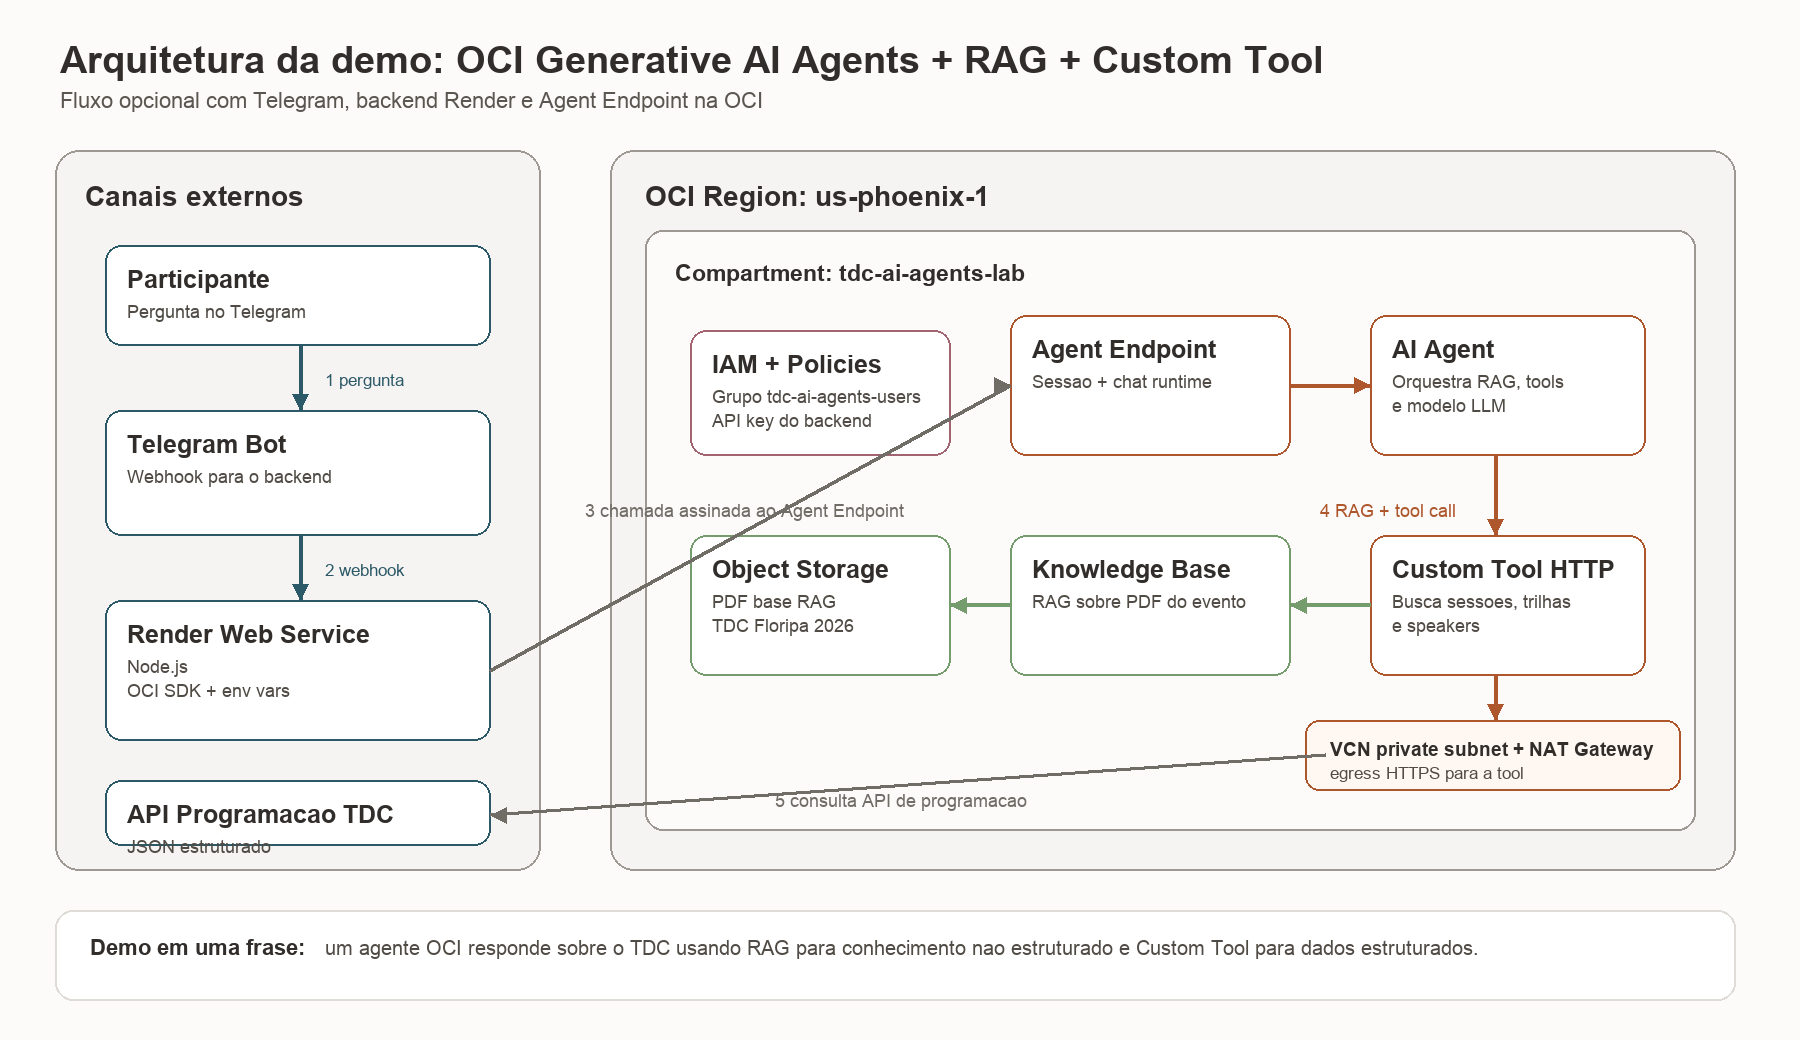
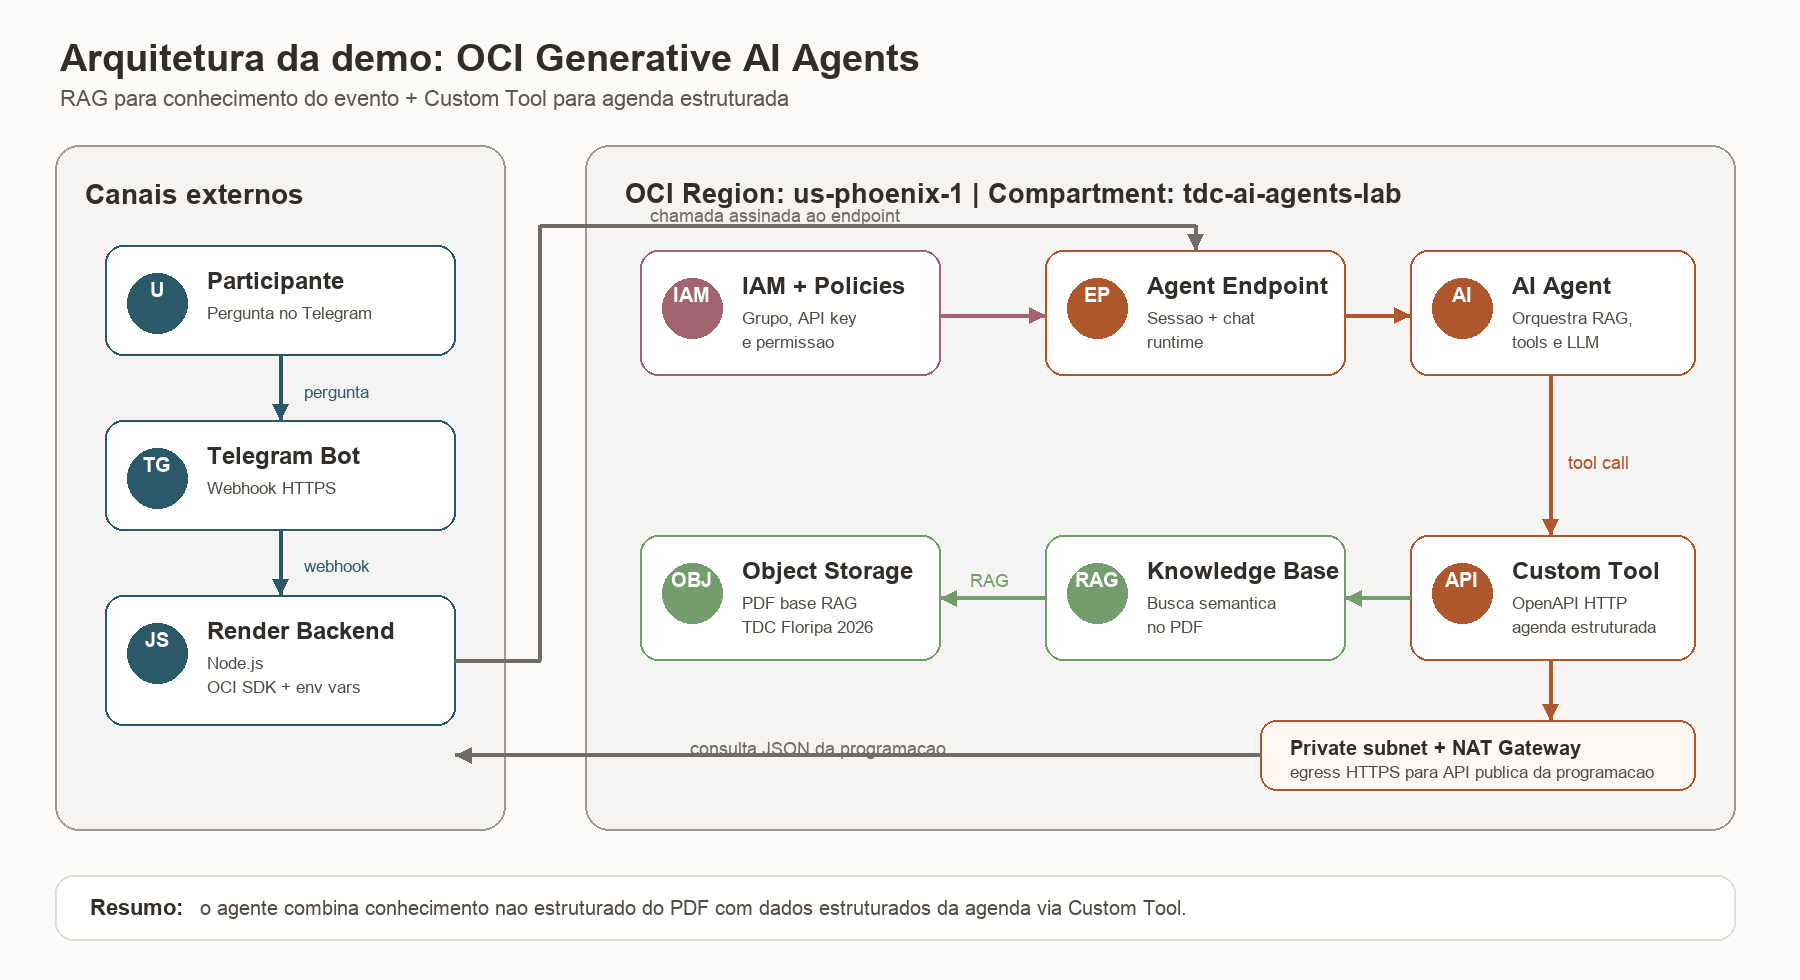
Simplify architecture diagram and demo deck

diff --git a/scripts/generate_readme_ppt_assets.py b/scripts/generate_readme_ppt_assets.py
@@ -45,10 +45,11 @@ def label(draw, text, x, y, size=24, fill=COLORS["bark"], bold=False, anchor=Non
     draw.text((x, y), text, fill=fill, font=font(size, bold), anchor=anchor)
 
 
-def arrow(draw, start, end, fill=COLORS["line"], width=4):
-    draw.line([start, end], fill=fill, width=width)
-    x1, y1 = start
-    x2, y2 = end
+def arrow(draw, start, end, fill=COLORS["line"], width=4, via=None):
+    points = [start] + (via or []) + [end]
+    draw.line(points, fill=fill, width=width)
+    x1, y1 = points[-2]
+    x2, y2 = points[-1]
     if abs(x2 - x1) >= abs(y2 - y1):
         direction = 1 if x2 >= x1 else -1
         points = [(x2, y2), (x2 - 16 * direction, y2 - 8), (x2 - 16 * direction, y2 + 8)]
@@ -58,73 +59,70 @@ def arrow(draw, start, end, fill=COLORS["line"], width=4):
     draw.polygon(points, fill=fill)
 
 
-def draw_component(draw, xy, title, subtitle, fill, outline=None):
+def draw_icon_card(draw, xy, icon, title, subtitle, accent):
     x1, y1, x2, y2 = xy
-    rounded_box(draw, xy, fill=fill, outline=outline or COLORS["line"], radius=16)
-    label(draw, title, x1 + 22, y1 + 20, size=25, bold=True)
+    rounded_box(draw, xy, fill="#FFFFFF", outline=accent, radius=18)
+    draw.ellipse((x1 + 22, y1 + 28, x1 + 82, y1 + 88), fill=accent, outline=accent)
+    label(draw, icon, x1 + 52, y1 + 45, size=20, fill="#FFFFFF", bold=True, anchor="mm")
+    label(draw, title, x1 + 102, y1 + 22, size=24, bold=True)
     if subtitle:
-        y = y1 + 56
+        y = y1 + 58
         for line in subtitle.split("\n"):
-            label(draw, line, x1 + 22, y, size=18, fill="#504B45")
+            label(draw, line, x1 + 102, y, size=17, fill="#504B45")
             y += 24
 
 
 def generate_architecture_png():
     path = DOCS / "arquitetura-oci-ai-agents-tdc.png"
-    img = Image.new("RGB", (1800, 1040), COLORS["air"])
+    img = Image.new("RGB", (1800, 980), COLORS["air"])
     draw = ImageDraw.Draw(img)
 
-    label(draw, "Arquitetura da demo: OCI Generative AI Agents + RAG + Custom Tool", 60, 38, size=38, bold=True)
-    label(draw, "Fluxo opcional com Telegram, backend Render e Agent Endpoint na OCI", 60, 88, size=22, fill="#5B5650")
+    label(draw, "Arquitetura da demo: OCI Generative AI Agents", 60, 36, size=38, bold=True)
+    label(draw, "RAG para conhecimento do evento + Custom Tool para agenda estruturada", 60, 86, size=22, fill="#5B5650")
 
-    rounded_box(draw, (55, 150, 540, 870), fill="#F5F4F2", outline="#9E9892", radius=24)
-    label(draw, "Canais externos", 85, 180, size=28, bold=True)
-    draw_component(draw, (105, 245, 490, 345), "Participante", "Pergunta no Telegram", "#FFFFFF", COLORS["ocean"])
-    draw_component(draw, (105, 410, 490, 535), "Telegram Bot", "Webhook para o backend", "#FFFFFF", COLORS["ocean"])
-    draw_component(draw, (105, 600, 490, 740), "Render Web Service", "Node.js\nOCI SDK + env vars", "#FFFFFF", COLORS["ocean"])
-    draw_component(draw, (105, 780, 490, 845), "API Programacao TDC", "JSON estruturado", "#FFFFFF", COLORS["ocean"])
+    rounded_box(draw, (55, 145, 505, 830), fill="#F5F4F2", outline="#9E9892", radius=24)
+    label(draw, "Canais externos", 85, 178, size=28, bold=True)
+    draw_icon_card(draw, (105, 245, 455, 355), "U", "Participante", "Pergunta no Telegram", COLORS["ocean"])
+    draw_icon_card(draw, (105, 420, 455, 530), "TG", "Telegram Bot", "Webhook HTTPS", COLORS["ocean"])
+    draw_icon_card(draw, (105, 595, 455, 725), "JS", "Render Backend", "Node.js\nOCI SDK + env vars", COLORS["ocean"])
 
-    rounded_box(draw, (610, 150, 1735, 870), fill="#F5F4F2", outline="#9E9892", radius=24)
-    label(draw, "OCI Region: us-phoenix-1", 645, 180, size=28, bold=True)
-    rounded_box(draw, (645, 230, 1695, 830), fill="#FCFBFA", outline="#9E9892", radius=18)
-    label(draw, "Compartment: tdc-ai-agents-lab", 675, 260, size=23, bold=True)
+    rounded_box(draw, (585, 145, 1735, 830), fill="#F5F4F2", outline="#9E9892", radius=24)
+    label(draw, "OCI Region: us-phoenix-1 | Compartment: tdc-ai-agents-lab", 625, 178, size=27, bold=True)
 
-    draw_component(draw, (690, 330, 950, 455), "IAM + Policies", "Grupo tdc-ai-agents-users\nAPI key do backend", "#FFFFFF", COLORS["rose"])
-    draw_component(draw, (1010, 315, 1290, 455), "Agent Endpoint", "Sessao + chat runtime", "#FFFFFF", COLORS["sienna"])
-    draw_component(draw, (1370, 315, 1645, 455), "AI Agent", "Orquestra RAG, tools\ne modelo LLM", "#FFFFFF", COLORS["sienna"])
-    draw_component(draw, (1010, 535, 1290, 675), "Knowledge Base", "RAG sobre PDF do evento", "#FFFFFF", COLORS["ivy"])
-    draw_component(draw, (690, 535, 950, 675), "Object Storage", "PDF base RAG\nTDC Floripa 2026", "#FFFFFF", COLORS["ivy"])
-    draw_component(draw, (1370, 535, 1645, 675), "Custom Tool HTTP", "Busca sessoes, trilhas\ne speakers", "#FFFFFF", COLORS["sienna"])
-    rounded_box(draw, (1305, 720, 1680, 790), fill="#FFF8F2", outline=COLORS["sienna"], radius=14)
-    label(draw, "VCN private subnet + NAT Gateway", 1330, 738, size=19, bold=True)
-    label(draw, "egress HTTPS para a tool", 1330, 763, size=17, fill="#504B45")
+    draw_icon_card(draw, (640, 250, 940, 375), "IAM", "IAM + Policies", "Grupo, API key\ne permissao", COLORS["rose"])
+    draw_icon_card(draw, (1045, 250, 1345, 375), "EP", "Agent Endpoint", "Sessao + chat\nruntime", COLORS["sienna"])
+    draw_icon_card(draw, (1410, 250, 1695, 375), "AI", "AI Agent", "Orquestra RAG,\ntools e LLM", COLORS["sienna"])
 
-    arrow(draw, (300, 345), (300, 410), COLORS["ocean"])
-    arrow(draw, (300, 535), (300, 600), COLORS["ocean"])
-    arrow(draw, (490, 670), (1010, 385), COLORS["line"])
-    arrow(draw, (1290, 385), (1370, 385), COLORS["sienna"])
-    arrow(draw, (1495, 455), (1495, 535), COLORS["sienna"])
-    arrow(draw, (1370, 605), (1290, 605), COLORS["ivy"])
-    arrow(draw, (1010, 605), (950, 605), COLORS["ivy"])
-    arrow(draw, (1495, 675), (1495, 720), COLORS["sienna"])
-    arrow(draw, (1325, 755), (490, 815), COLORS["line"])
+    draw_icon_card(draw, (640, 535, 940, 660), "OBJ", "Object Storage", "PDF base RAG\nTDC Floripa 2026", COLORS["ivy"])
+    draw_icon_card(draw, (1045, 535, 1345, 660), "RAG", "Knowledge Base", "Busca semantica\nno PDF", COLORS["ivy"])
+    draw_icon_card(draw, (1410, 535, 1695, 660), "API", "Custom Tool", "OpenAPI HTTP\nagenda estruturada", COLORS["sienna"])
 
-    label(draw, "1 pergunta", 325, 370, size=17, fill=COLORS["ocean"])
-    label(draw, "2 webhook", 325, 560, size=17, fill=COLORS["ocean"])
-    label(draw, "3 chamada assinada ao Agent Endpoint", 585, 500, size=18, fill=COLORS["line"])
-    label(draw, "4 RAG + tool call", 1320, 500, size=18, fill=COLORS["sienna"])
-    label(draw, "5 consulta API de programacao", 775, 790, size=18, fill=COLORS["line"])
+    rounded_box(draw, (1260, 720, 1695, 790), fill="#FFF8F2", outline=COLORS["sienna"], radius=16)
+    label(draw, "Private subnet + NAT Gateway", 1290, 736, size=20, bold=True)
+    label(draw, "egress HTTPS para API publica da programacao", 1290, 762, size=17, fill="#504B45")
 
-    rounded_box(draw, (55, 910, 1735, 1000), fill="#FFFFFF", outline="#DFDCD8", radius=18)
-    label(draw, "Demo em uma frase:", 90, 935, size=22, bold=True)
-    label(
-        draw,
-        "um agente OCI responde sobre o TDC usando RAG para conhecimento nao estruturado e Custom Tool para dados estruturados.",
-        325,
-        936,
-        size=20,
-        fill="#504B45",
-    )
+    # Clean lanes. All connectors pass between cards, never over text.
+    arrow(draw, (280, 355), (280, 420), COLORS["ocean"])
+    arrow(draw, (280, 530), (280, 595), COLORS["ocean"])
+    arrow(draw, (455, 660), (1195, 250), COLORS["line"], via=[(540, 660), (540, 225), (1195, 225)])
+    arrow(draw, (940, 315), (1045, 315), COLORS["rose"])
+    arrow(draw, (1345, 315), (1410, 315), COLORS["sienna"])
+    arrow(draw, (1550, 375), (1550, 535), COLORS["sienna"])
+    arrow(draw, (1410, 598), (1345, 598), COLORS["ivy"])
+    arrow(draw, (1045, 598), (940, 598), COLORS["ivy"])
+    arrow(draw, (1550, 660), (1550, 720), COLORS["sienna"])
+    arrow(draw, (1260, 755), (455, 755), COLORS["line"])
+
+    label(draw, "pergunta", 304, 382, size=17, fill=COLORS["ocean"])
+    label(draw, "webhook", 304, 556, size=17, fill=COLORS["ocean"])
+    label(draw, "chamada assinada ao endpoint", 650, 205, size=18, fill=COLORS["line"])
+    label(draw, "RAG", 970, 570, size=18, fill=COLORS["ivy"])
+    label(draw, "tool call", 1568, 452, size=18, fill=COLORS["sienna"])
+    label(draw, "consulta JSON da programacao", 690, 738, size=18, fill=COLORS["line"])
+
+    rounded_box(draw, (55, 875, 1735, 940), fill="#FFFFFF", outline="#DFDCD8", radius=18)
+    label(draw, "Resumo:", 90, 895, size=22, bold=True)
+    label(draw, "o agente combina conhecimento nao estruturado do PDF com dados estruturados da agenda via Custom Tool.", 200, 896, size=20, fill="#504B45")
 
     img.save(path)
     return path

diff --git a/scripts/build_demo_ppt.py b/scripts/build_demo_ppt.py
@@ -168,8 +168,8 @@ def build():
     shutil.copyfile(TEMPLATE, OUTPUT)
     prs = Presentation(str(OUTPUT))
 
-    # Keep title, three content slides, and the closing slide.
-    for index in [7, 6, 5, 4]:
+    # Keep a single light content slide from the Redwood starter.
+    for index in [8, 7, 6, 5, 4, 3, 2, 0]:
         remove_slide(prs, index)
 
     slides = list(prs.slides)
@@ -178,93 +178,31 @@ def build():
     for idx, slide in enumerate(slides, start=1):
         normalize_template_footer(slide, idx)
 
-    # Slide 1
     s = slides[0]
-    textbox(s, "Lab TDC: AI Agents na OCI", 0.75, 0.75, 7.4, 0.65, size=34, bold=True, color="white")
-    textbox(s, "RAG, Custom Tools e endpoint em uma demo de 1 hora", 0.78, 1.42, 7.8, 0.35, size=18, color="white")
-    textbox(s, "Material de apoio", 0.78, 4.55, 2.5, 0.3, size=14, color="white")
-    add_link(s, GITHUB_URL, 0.78, 4.9, 6.2, 0.42)
-    s.shapes.add_picture(str(QR), Inches(10.15), Inches(1.15), width=Inches(2.05), height=Inches(2.05))
-    textbox(s, "Aponte a camera para abrir o GitHub", 9.65, 3.35, 3.0, 0.4, size=13, color="white", align=PP_ALIGN.CENTER)
+    textbox(s, "Lab TDC: AI Agents na OCI", 0.55, 0.35, 6.5, 0.45, size=27, bold=True)
+    textbox(s, "Arquitetura, QR code e resumo da demo", 0.57, 0.82, 5.4, 0.28, size=14, color="muted")
 
-    # Slide 2
-    s = slides[1]
-    textbox(s, "O que a demo mostra", 0.7, 0.55, 6.7, 0.5, size=30, bold=True)
+    s.shapes.add_picture(str(ARCH), Inches(0.45), Inches(1.25), width=Inches(8.35), height=Inches(4.55))
+    s.shapes.add_picture(str(QR), Inches(10.15), Inches(0.72), width=Inches(1.85), height=Inches(1.85))
+    textbox(s, "GitHub do lab", 10.0, 2.62, 2.15, 0.25, size=13, bold=True, align=PP_ALIGN.CENTER)
+
+    textbox(s, "O que a demo ensina", 9.15, 3.15, 3.5, 0.35, size=20, bold=True)
     bullets(
         s,
         [
-            "Criacao de um OCI Generative AI Agent em uma tenancy trial do zero.",
-            "RAG com PDF do TDC Floripa 2026 para contexto geral do evento.",
-            "Custom Tool HTTP para buscar agenda, speakers, trilhas e horarios.",
-            "Agent Endpoint consumido por um canal externo: Telegram via backend Render.",
+            "Agent com RAG: PDF do evento como base de conhecimento.",
+            "Custom Tool: agenda e speakers via API estruturada.",
+            "Endpoint real: consumo pelo Telegram usando backend Render.",
         ],
-        0.85,
-        1.45,
-        6.1,
-        4.3,
-        size=19,
-    )
-    pill(s, "RAG = conhecimento nao estruturado", 7.45, 1.55, 4.6, 0.55, fill="neutral", line="ivy")
-    pill(s, "Tool = dado estruturado e atualizavel", 7.45, 2.35, 4.6, 0.55, fill="neutral", line="sienna")
-    pill(s, "Endpoint = integracao real", 7.45, 3.15, 4.6, 0.55, fill="neutral", line="ocean")
-    pill(s, "Telegram = experiencia de canal", 7.45, 3.95, 4.6, 0.55, fill="neutral", line="rose")
-
-    # Slide 3
-    s = slides[2]
-    textbox(s, "Arquitetura da solucao", 0.7, 0.45, 7.5, 0.5, size=30, bold=True)
-    textbox(s, "Do canal externo ao Agent Endpoint, combinando RAG e Custom Tool.", 0.72, 0.95, 8.6, 0.35, size=15, color="muted")
-    s.shapes.add_picture(str(ARCH), Inches(0.55), Inches(1.35), width=Inches(12.25), height=Inches(5.45))
-
-    # Slide 4
-    s = slides[3]
-    textbox(s, "Roteiro da demonstracao", 0.7, 0.55, 7.3, 0.5, size=30, bold=True)
-    bullets(
-        s,
-        [
-            "1. Preparar OCI: compartment, policies, bucket, rede e subnet privada.",
-            "2. Criar Knowledge Base e ingerir o PDF do evento.",
-            "3. Criar Agent, adicionar RAG Tool e Custom Tool via OpenAPI.",
-            "4. Testar perguntas: geral do evento, speaker, agenda e roteiro personalizado.",
-            "5. Mostrar endpoint em canal externo com Telegram e Render.",
-        ],
-        0.85,
-        1.35,
-        6.4,
-        4.8,
-        size=18,
-    )
-    textbox(s, "Perguntas boas para testar", 7.75, 1.35, 4.3, 0.35, size=18, bold=True)
-    bullets(
-        s,
-        [
-            "O que sao as Jornadas TDC?",
-            "Quais palestras a Livia Rodrigues vai fazer?",
-            "Monte um roteiro para GenAI e arquitetura.",
-        ],
-        7.75,
-        1.9,
-        4.2,
-        2.3,
-        size=16,
-        color="muted",
-    )
-
-    # Slide 5
-    s = slides[4]
-    textbox(s, "Material e proximos passos", 0.75, 0.8, 6.8, 0.6, size=32, bold=True, color="bark")
-    textbox(
-        s,
-        "Use o repositorio para repetir o lab, atualizar os assets do TDC e adaptar a tool para outros eventos ou bases internas.",
-        0.78,
-        1.55,
-        7.3,
-        1.0,
-        size=19,
+        9.15,
+        3.62,
+        3.45,
+        1.8,
+        size=15,
         color="bark",
     )
-    add_link(s, GITHUB_URL, 0.78, 3.1, 7.2, 0.45)
-    s.shapes.add_picture(str(QR), Inches(9.75), Inches(1.1), width=Inches(2.15), height=Inches(2.15))
-    textbox(s, "GitHub do lab", 9.6, 3.38, 2.5, 0.35, size=15, color="bark", align=PP_ALIGN.CENTER)
+    pill(s, "RAG + Tools + Endpoint", 9.25, 5.72, 3.0, 0.42, fill="neutral", line="sienna", size=13)
+    add_link(s, GITHUB_URL, 0.6, 6.67, 7.4, 0.28)
 
     prs.save(str(OUTPUT))
     return OUTPUT